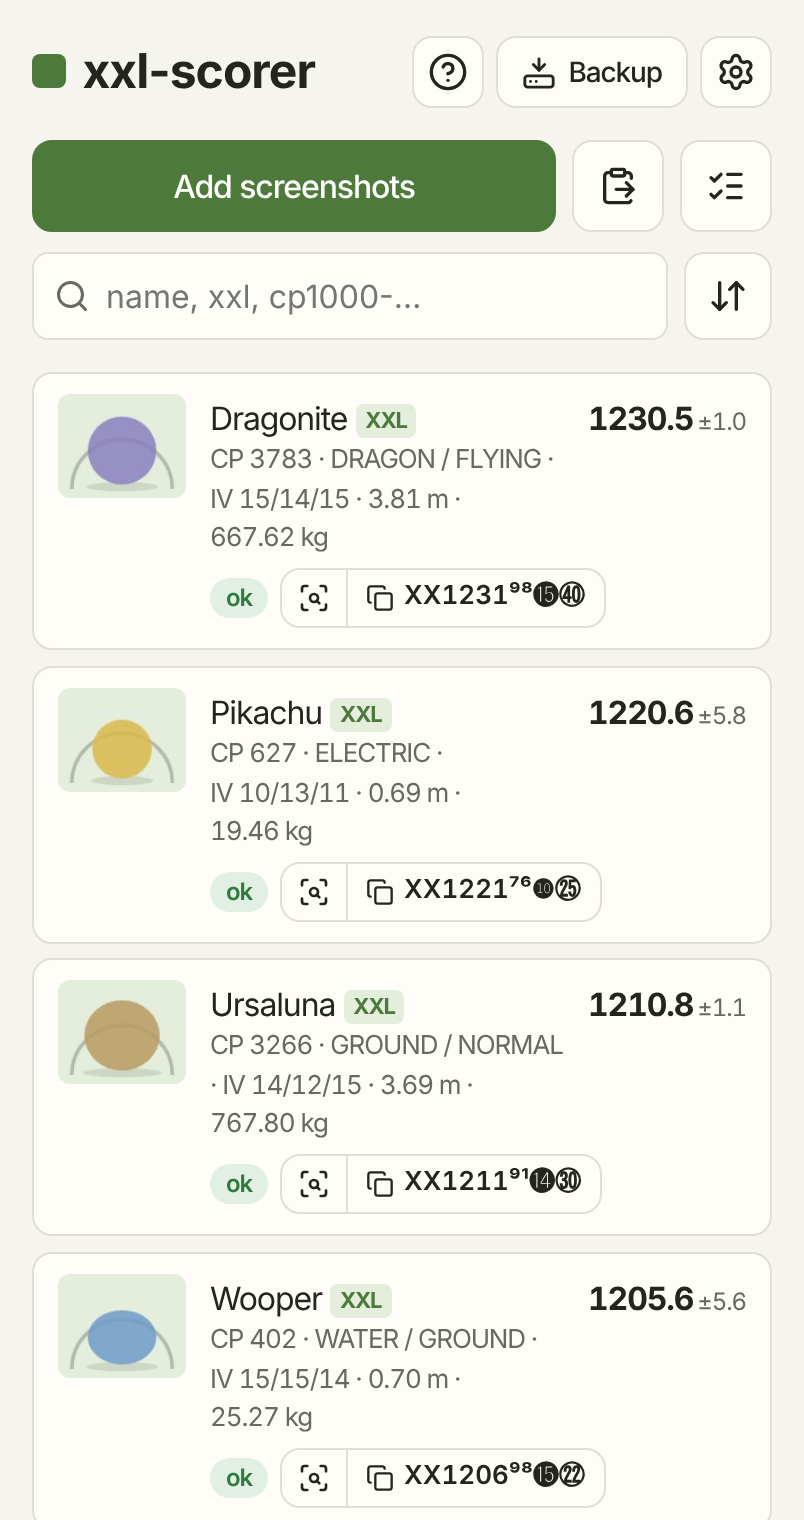
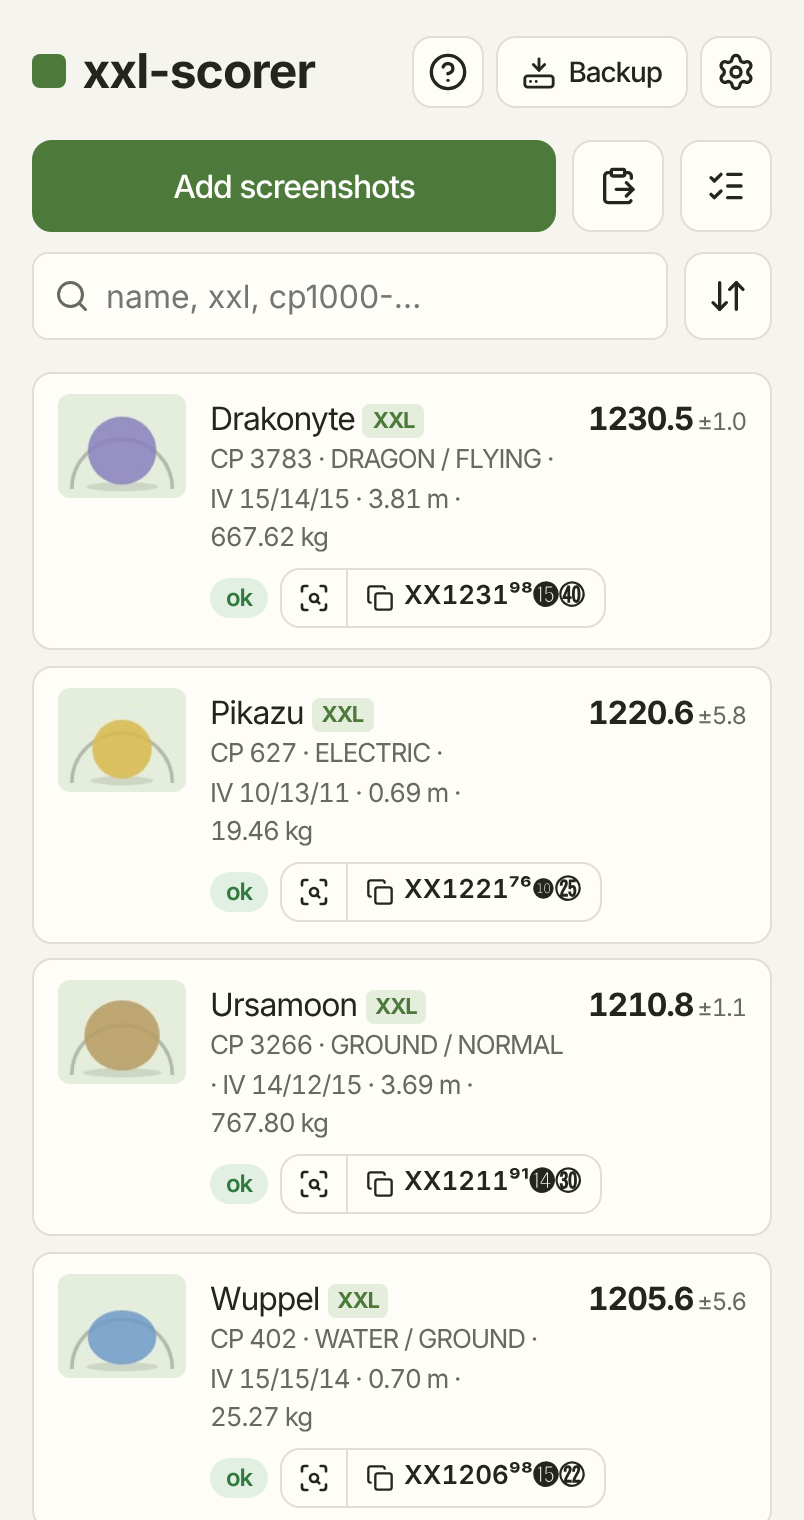
README pictures: made-up species names; the help drawing as docs/help.png
The list shows invented names (Drakonyte, Pikazu, Ursamoon, ...) instead of
the species': the tool swaps them into the page's copy of the game texts, so
the rows still score as those species, and refuses a name less than two
letters from a real one.

docs/screenshot.png becomes docs/help.png, drawn by the same tool from
today's page: the old one still showed the buttons before they had icons.

diff --git a/README.md b/README.md
@@ -66,7 +66,7 @@ won't run JavaScript modules from `file://`.
    second one. On a 16:9 phone (iPhone 8, SE) the appraisal always covers them: take every
    Pokémon with and without it. Do this for every Pokémon you want to compare; swiping through
    the storage and screenshotting each one twice is fine, the screenshots are put together again
-   (step 3). The **?** button shows a [drawing of the two](docs/screenshot.png).
+   (step 3). The **?** button shows a [drawing of the two](docs/help.png).
 2. Open xxl-scorer and press **Add screenshots** (or drop the files onto the page). Pick as many
    as you like. A screenshot taken with "Copy & Delete" goes in with **Paste** (the clipboard
    button next to it). On a Mac, the file dialog usually lists the Photos library in its
@@ -199,7 +199,7 @@ No dependencies and no build: plain JavaScript modules.
   the same major version. Updates are never automatic: after one, run the tests below and try
   the page.
 - `tools/build-gm.sh` the game data compaction in bash + jq, kept identical to the JS by a test
-- `tools/readme-picture.mjs` draws the picture at the top of this README (instructions inside)
+- `tools/readme-picture.mjs` draws the pictures in this README (instructions inside)
 - `docs/HOW-IT-WORKS.md` the core: the score formula, the IVs, reading and merging screenshots
 - `CHANGELOG.md` what changed in each release; `docs/RELEASING.md` how a release is made
 
